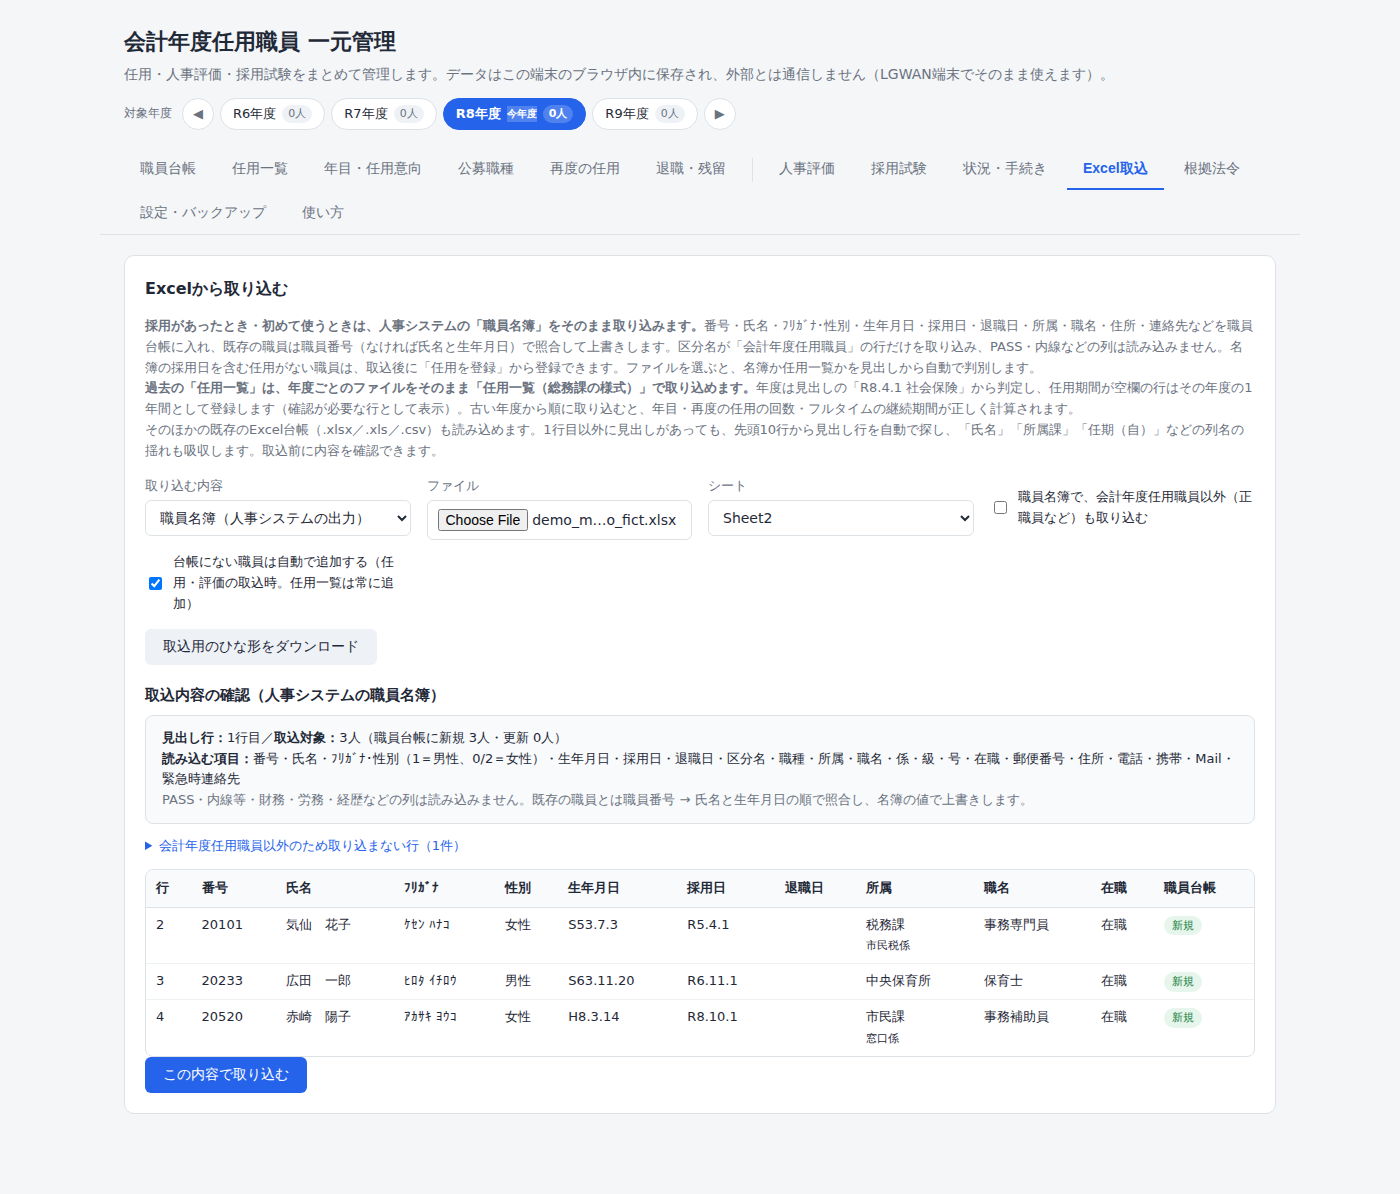
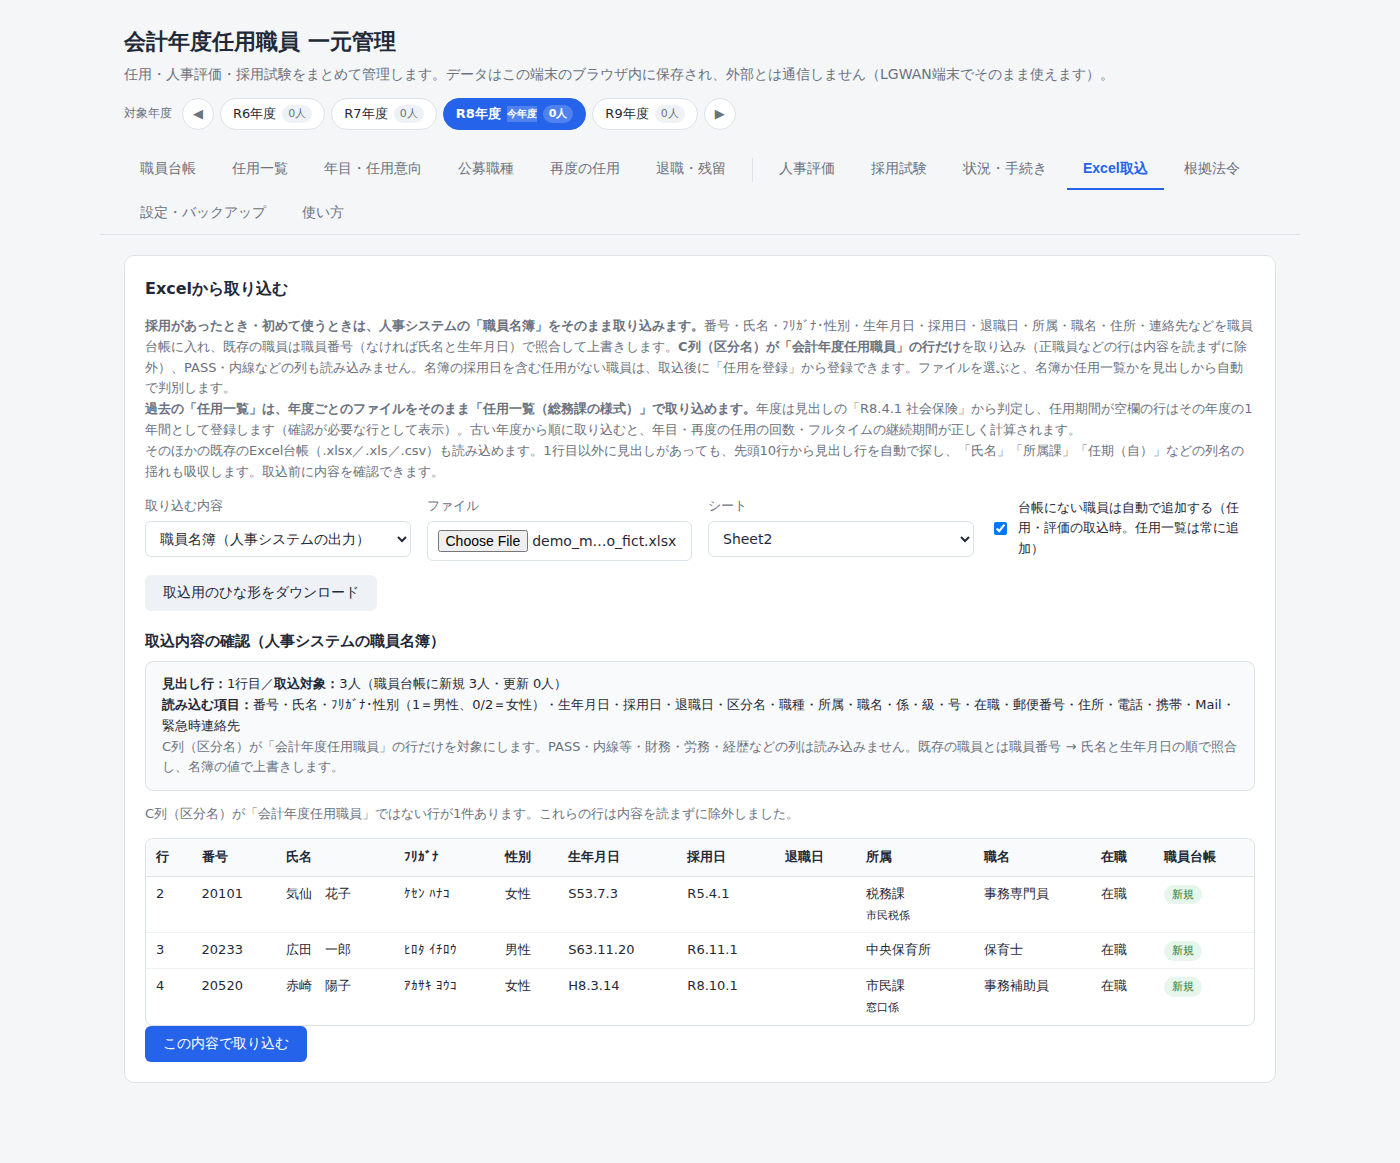
職員名簿はC列（区分名）が会計年度任用職員の行だけを扱う
- 名簿の取込対象を区分名が「会計年度任用職員」の行に固定
  （見出しがない場合はC列で判定）。それ以外の行は氏名を含め内容を
  読まずに除外し、件数だけ表示する
- 「会計年度任用職員以外も取り込む」の選択肢を削除
- 職員の登録時は区分名を会計年度任用職員に固定し、保存データに
  他の区分の職員があれば読み込み時に除く

Claude-Session: https://claude.ai/code/session_01TV6gLjN2w3tfB3MhK9eTKV

diff --git a/js/core.js b/js/core.js
@@ -164,6 +164,13 @@
     for (const k of ['staff', 'appointments', 'evaluations', 'exams', 'applicants', 'recruitPositions']) {
       if (!Array.isArray(out[k])) out[k] = [];
     }
+    // 会計年度任用職員以外（区分名が入っていて別の区分）の職員は扱わない
+    const others = new Set(out.staff.filter((s) => s.category && !isMeiboTarget(s.category)).map((s) => s.id));
+    if (others.size) {
+      out.staff = out.staff.filter((s) => !others.has(s.id));
+      out.appointments = out.appointments.filter((a) => !others.has(a.staffId));
+      out.evaluations = out.evaluations.filter((e) => !others.has(e.staffId));
+    }
     out.settings = { ...base.settings, ...(raw.settings || {}) };
     out.legalTexts = { ...(raw.legalTexts || {}) };
     return out;
@@ -1324,9 +1331,14 @@
   }
   /**
    * 名簿の行データを取込用レコードに変換する。
-   * includeOthers=false のときは区分名に「会計年度」を含む行だけを対象にする。
+   * このアプリは会計年度任用職員の管理用のため、C列（区分名）が「会計年度任用職員」の行だけを読む。
+   * それ以外の行（正職員など）は、氏名を含め一切の値を読まずに件数だけ数える。
    */
-  function parseMeibo(rows, includeOthers) {
+  const MEIBO_TARGET_CATEGORY = '会計年度任用職員';
+  function isMeiboTarget(v) {
+    return String(v == null ? '' : v).normalize('NFKC').replace(/\s/g, '') === MEIBO_TARGET_CATEGORY;
+  }
+  function parseMeibo(rows) {
     let headerRow = -1;
     const map = {};
     for (let r = 0; r < Math.min(rows.length, 10); r++) {
@@ -1339,20 +1351,20 @@
       });
       break;
     }
-    if (headerRow < 0) return { records: [], skipped: [], excluded: [], error: '「氏名」と「採用日」（または「生年月日」）の見出しがある行が見つかりません。職員名簿の形式か確認してください。' };
+    if (headerRow < 0) return { records: [], skipped: [], excludedCount: 0, error: '「氏名」と「採用日」（または「生年月日」）の見出しがある行が見つかりません。職員名簿の形式か確認してください。' };
+    // 区分名の列（見出しがなければC列）
+    if (map.category === undefined) map.category = 2;
     const get = (row, f) => (map[f] === undefined ? '' : row[map[f]]);
     const records = [];
     const skipped = [];
-    const excluded = [];
+    let excludedCount = 0;
     for (let r = headerRow + 1; r < rows.length; r++) {
       const row = rows[r] || [];
-      const name = cellText(get(row, 'name'));
-      if (!name) { if (row.some((c) => c != null && c !== '')) skipped.push({ row: r + 1, reason: '氏名が空欄' }); continue; }
+      if (!row.some((c) => c != null && c !== '')) continue;
       const category = cellText(get(row, 'category'));
-      if (!includeOthers && map.category !== undefined && !/会計年度/.test(category)) {
-        excluded.push({ row: r + 1, name, reason: `区分名が「${category || '空欄'}」` });
-        continue;
-      }
+      if (!isMeiboTarget(category)) { excludedCount += 1; continue; }
+      const name = cellText(get(row, 'name'));
+      if (!name) { skipped.push({ row: r + 1, reason: '氏名が空欄' }); continue; }
       const addr = [cellText(get(row, 'address1')), cellText(get(row, 'address2'))].filter(Boolean).join('　');
       const inService = cellText(get(row, 'inService'));
       records.push({
@@ -1364,7 +1376,7 @@
         birth: excelValueToISO(get(row, 'birth')),
         hireDate: excelValueToISO(get(row, 'hireDate')),
         retireDate: excelValueToISO(get(row, 'retireDate')),
-        category,
+        category: MEIBO_TARGET_CATEGORY,
         jobType: cellText(get(row, 'jobType')),
         deptCode: cellText(get(row, 'deptCode')),
         dept: cellText(get(row, 'dept')),
@@ -1383,7 +1395,7 @@
         emergencyPhone: cellText(get(row, 'emergencyPhone')),
       });
     }
-    return { records, skipped, excluded, headerRow, map };
+    return { records, skipped, excludedCount, headerRow, map };
   }
   /** 名簿で職員を探す：職員番号 → 氏名と生年月日 → 氏名（1人に決まる場合） */
   function findStaffForMeibo(data, rec) {
@@ -1428,7 +1440,7 @@
     kubunOf, applyKubun, hoursOf, termMonths, calcPay, expectedPayDay, bonusEligibility, fullTimeServiceStart,
     fullTimeSwitchDates, suggestSocialIns, suggestEmpIns, healthCheckRequired, serviceStartOf, continuousServiceYears, annualLeaveDays, annualLeaveInfo, LEAVE_GRANT_LABEL,
     parsePeriod, toWarekiShort, parseNinyoIchiran, ninyoIchiranRows,
-    parseMeibo, parseMeiboGender, findStaffForMeibo, hasAppointmentOn,
+    parseMeibo, parseMeiboGender, isMeiboTarget, findStaffForMeibo, hasAppointmentOn,
     appointmentStatus, expiringAppointments,
     evaluationFor, hasGrades, suggestOverall, missingEvaluations, buildNextYearPlan,
     RETIRE_LABEL, CONTINUATION_LABEL, latestAppointmentsOfFy, continuationStatus, recruitNeeds, careerOf, fiscalYearSummary, fiscalYearsInData,

diff --git a/js/app.js b/js/app.js
@@ -374,7 +374,6 @@ function staffFields() {
     { key: 'birth', label: '生年月日', type: 'date' },
     { key: 'hireDate', label: '採用日（人事システム）', type: 'date' },
     { key: 'retireDate', label: '退職日（人事システム）', type: 'date' },
-    { key: 'category', label: '区分名', placeholder: '会計年度任用職員' },
     { key: 'jobType', label: '職種' },
     { key: 'postal', label: '郵便番号' },
     { key: 'address', label: '住所', full: true },
@@ -395,7 +394,7 @@ function openStaffForm(staff, afterSave) {
     }
     let saved;
     if (isNew) {
-      saved = { id: C.uid('st'), ...v, createdAt: new Date().toISOString() };
+      saved = { id: C.uid('st'), ...v, category: '会計年度任用職員', createdAt: new Date().toISOString() };
       DATA.staff.push(saved);
     } else {
       Object.assign(staff, v);
@@ -1177,8 +1176,7 @@ function renderImportPreview() {
 }
 /** 人事システムの職員名簿の取込確認 */
 function renderMeiboPreview(box, ws) {
-  const includeOthers = document.getElementById('import-include-others').checked;
-  const res = C.parseMeibo(sheetRows(ws), includeOthers);
+  const res = C.parseMeibo(sheetRows(ws));
   importState.result = res;
   importState.kind = 'meibo';
   if (res.error) { box.innerHTML = `<p class="error-text">${escapeHtml(res.error)}</p>`; return; }
@@ -1189,9 +1187,9 @@ function renderMeiboPreview(box, ws) {
     <div class="import-summary">
       <div><strong>見出し行：</strong>${res.headerRow + 1}行目／<strong>取込対象：</strong>${res.records.length}人（職員台帳に新規 ${plan.add}人・更新 ${plan.update}人）</div>
       <div><strong>読み込む項目：</strong>番号・氏名・ﾌﾘｶﾞﾅ・性別（1＝男性、0/2＝女性）・生年月日・採用日・退職日・区分名・職種・所属・職名・係・級・号・在職・郵便番号・住所・電話・携帯・Mail・緊急時連絡先</div>
-      <div class="muted">PASS・内線等・財務・労務・経歴などの列は読み込みません。既存の職員とは職員番号 → 氏名と生年月日の順で照合し、名簿の値で上書きします。</div>
+      <div class="muted">C列（区分名）が「会計年度任用職員」の行だけを対象にします。PASS・内線等・財務・労務・経歴などの列は読み込みません。既存の職員とは職員番号 → 氏名と生年月日の順で照合し、名簿の値で上書きします。</div>
     </div>
-    ${res.excluded.length ? `<details><summary>会計年度任用職員以外のため取り込まない行（${res.excluded.length}件）</summary><ul>${res.excluded.map((x) => `<li>${x.row}行目 ${escapeHtml(x.name)}：${escapeHtml(x.reason)}</li>`).join('')}</ul></details>` : ''}
+    ${res.excludedCount ? `<p class="muted">C列（区分名）が「会計年度任用職員」ではない行が${res.excludedCount}件あります。これらの行は内容を読まずに除外しました。</p>` : ''}
     ${res.skipped.length ? `<details><summary>取り込まない行（${res.skipped.length}件）</summary><ul>${res.skipped.map((x) => `<li>${x.row}行目：${escapeHtml(x.reason)}</li>`).join('')}</ul></details>` : ''}
     ${tableHtml(['行', '番号', '氏名', 'ﾌﾘｶﾞﾅ', '性別', '生年月日', '採用日', '退職日', '所属', '職名', '在職', '職員台帳'],
       res.records.slice(0, 100).map((r) => {
@@ -1201,7 +1199,7 @@ function renderMeiboPreview(box, ws) {
           <td>${escapeHtml(r.dept)}${r.section ? `<br><small>${escapeHtml(r.section)}</small>` : ''}</td><td>${escapeHtml(r.title)}</td><td>${escapeHtml(r.inService)}</td>
           <td>${hit ? `<span class="badge">更新</span> ${escapeHtml(hit.name)}` : '<span class="badge ok">新規</span>'}</td></tr>`;
       }),
-      '取り込む職員がいません（会計年度任用職員の行がない場合は「会計年度任用職員以外も取り込む」を確認してください）。')}
+      '取り込む職員がいません（C列の区分名が「会計年度任用職員」の行がありません）。')}
     ${res.records.length > 100 ? `<p class="muted">先頭100件を表示しています（全${res.records.length}件）。</p>` : ''}
     <div class="row-actions"><button class="btn-primary" id="btn-import-run"${res.records.length ? '' : ' disabled'}>この内容で取り込む</button></div>`;
   document.getElementById('btn-import-run').onclick = runImport;
@@ -2067,7 +2065,6 @@ function init() {
   document.getElementById('import-kind').onchange = renderImportPreview;
   document.getElementById('import-sheet').onchange = renderImportPreview;
   document.getElementById('import-create-staff').onchange = renderImportPreview;
-  document.getElementById('import-include-others').onchange = renderImportPreview;
   document.getElementById('btn-import-template').onclick = downloadImportTemplate;
 
   document.getElementById('btn-backup').onclick = doBackup;

diff --git a/index.html b/index.html
@@ -232,7 +232,7 @@
   <section id="panel-import" class="tab-panel">
     <div class="card">
       <h2>Excelから取り込む</h2>
-      <p class="hint"><strong>採用があったとき・初めて使うときは、人事システムの「職員名簿」をそのまま取り込みます。</strong>番号・氏名・ﾌﾘｶﾞﾅ・性別・生年月日・採用日・退職日・所属・職名・住所・連絡先などを職員台帳に入れ、既存の職員は職員番号（なければ氏名と生年月日）で照合して上書きします。区分名が「会計年度任用職員」の行だけを取り込み、PASS・内線などの列は読み込みません。名簿の採用日を含む任用がない職員は、取込後に「任用を登録」から登録できます。ファイルを選ぶと、名簿か任用一覧かを見出しから自動で判別します。<br>
+      <p class="hint"><strong>採用があったとき・初めて使うときは、人事システムの「職員名簿」をそのまま取り込みます。</strong>番号・氏名・ﾌﾘｶﾞﾅ・性別・生年月日・採用日・退職日・所属・職名・住所・連絡先などを職員台帳に入れ、既存の職員は職員番号（なければ氏名と生年月日）で照合して上書きします。<strong>C列（区分名）が「会計年度任用職員」の行だけ</strong>を取り込み（正職員などの行は内容を読まずに除外）、PASS・内線などの列も読み込みません。名簿の採用日を含む任用がない職員は、取込後に「任用を登録」から登録できます。ファイルを選ぶと、名簿か任用一覧かを見出しから自動で判別します。<br>
         <strong>過去の「任用一覧」は、年度ごとのファイルをそのまま「任用一覧（総務課の様式）」で取り込めます。</strong>年度は見出しの「R8.4.1 社会保険」から判定し、任用期間が空欄の行はその年度の1年間として登録します（確認が必要な行として表示）。古い年度から順に取り込むと、年目・再度の任用の回数・フルタイムの継続期間が正しく計算されます。<br>
         そのほかの既存のExcel台帳（.xlsx／.xls／.csv）も読み込めます。1行目以外に見出しがあっても、先頭10行から見出し行を自動で探し、「氏名」「所属課」「任期（自）」などの列名の揺れも吸収します。取込前に内容を確認できます。</p>
       <form id="import-form" class="grid-form">
@@ -247,7 +247,6 @@
         </label>
         <label>ファイル<input type="file" id="import-file" accept=".xlsx,.xls,.csv"></label>
         <label>シート<select id="import-sheet"></select></label>
-        <label class="checkbox-label"><input type="checkbox" id="import-include-others"> 職員名簿で、会計年度任用職員以外（正職員など）も取り込む</label>
         <label class="checkbox-label"><input type="checkbox" id="import-create-staff" checked> 台帳にない職員は自動で追加する（任用・評価の取込時。任用一覧は常に追加）</label>
       </form>
       <div class="row-actions">

diff --git a/README.md b/README.md
@@ -121,7 +121,7 @@
 - 採用があったとき、また初めて使うときに、人事システムの職員名簿をそのまま取り込みます。ファイルを選ぶと見出しから自動で判別します。
 - 読み込む項目：番号・氏名・ﾌﾘｶﾞﾅ・性別（1＝男性、0/2＝女性）・生年月日・採用日・退職日・区分名・職種・所属CD・所属名・職名・係名・級・号・在職・郵便番号・住所（＋方書）・電話・携帯・Mail・緊急時連絡先。
 - **PASS・内線等・財務・労務・経歴などの列は読み込みません。**
-- 区分名が「会計年度任用職員」の行だけを取り込みます（正職員なども取り込む場合はチェックを入れる）。
+- **C列（区分名）が「会計年度任用職員」の行だけ**を取り込みます。正職員などの行は内容（氏名を含む）を読まずに除外し、件数だけ表示します。このアプリは会計年度任用職員だけを扱います。
 - 既存の職員とは、職員番号 → 氏名と生年月日 の順で照合し、名簿の値で上書きします。任用一覧から先に取り込んだ職員（番号なし）にも番号や性別・生年月日が入ります。
 - 名簿の採用日を含む任用がない職員（対象年度以降の採用日）は、取込後に「任用を登録」から登録できます。所属・職名・任用期間（採用日〜年度末）は名簿の値で入力済みです。今後90日以内の採用日の職員は「状況・手続き」にも表示します。
 - **初めて使うとき**は、①過去の任用一覧を古い年度から取込 → ②職員名簿を取込 の順がおすすめです（逆の順でも照合されます）。
